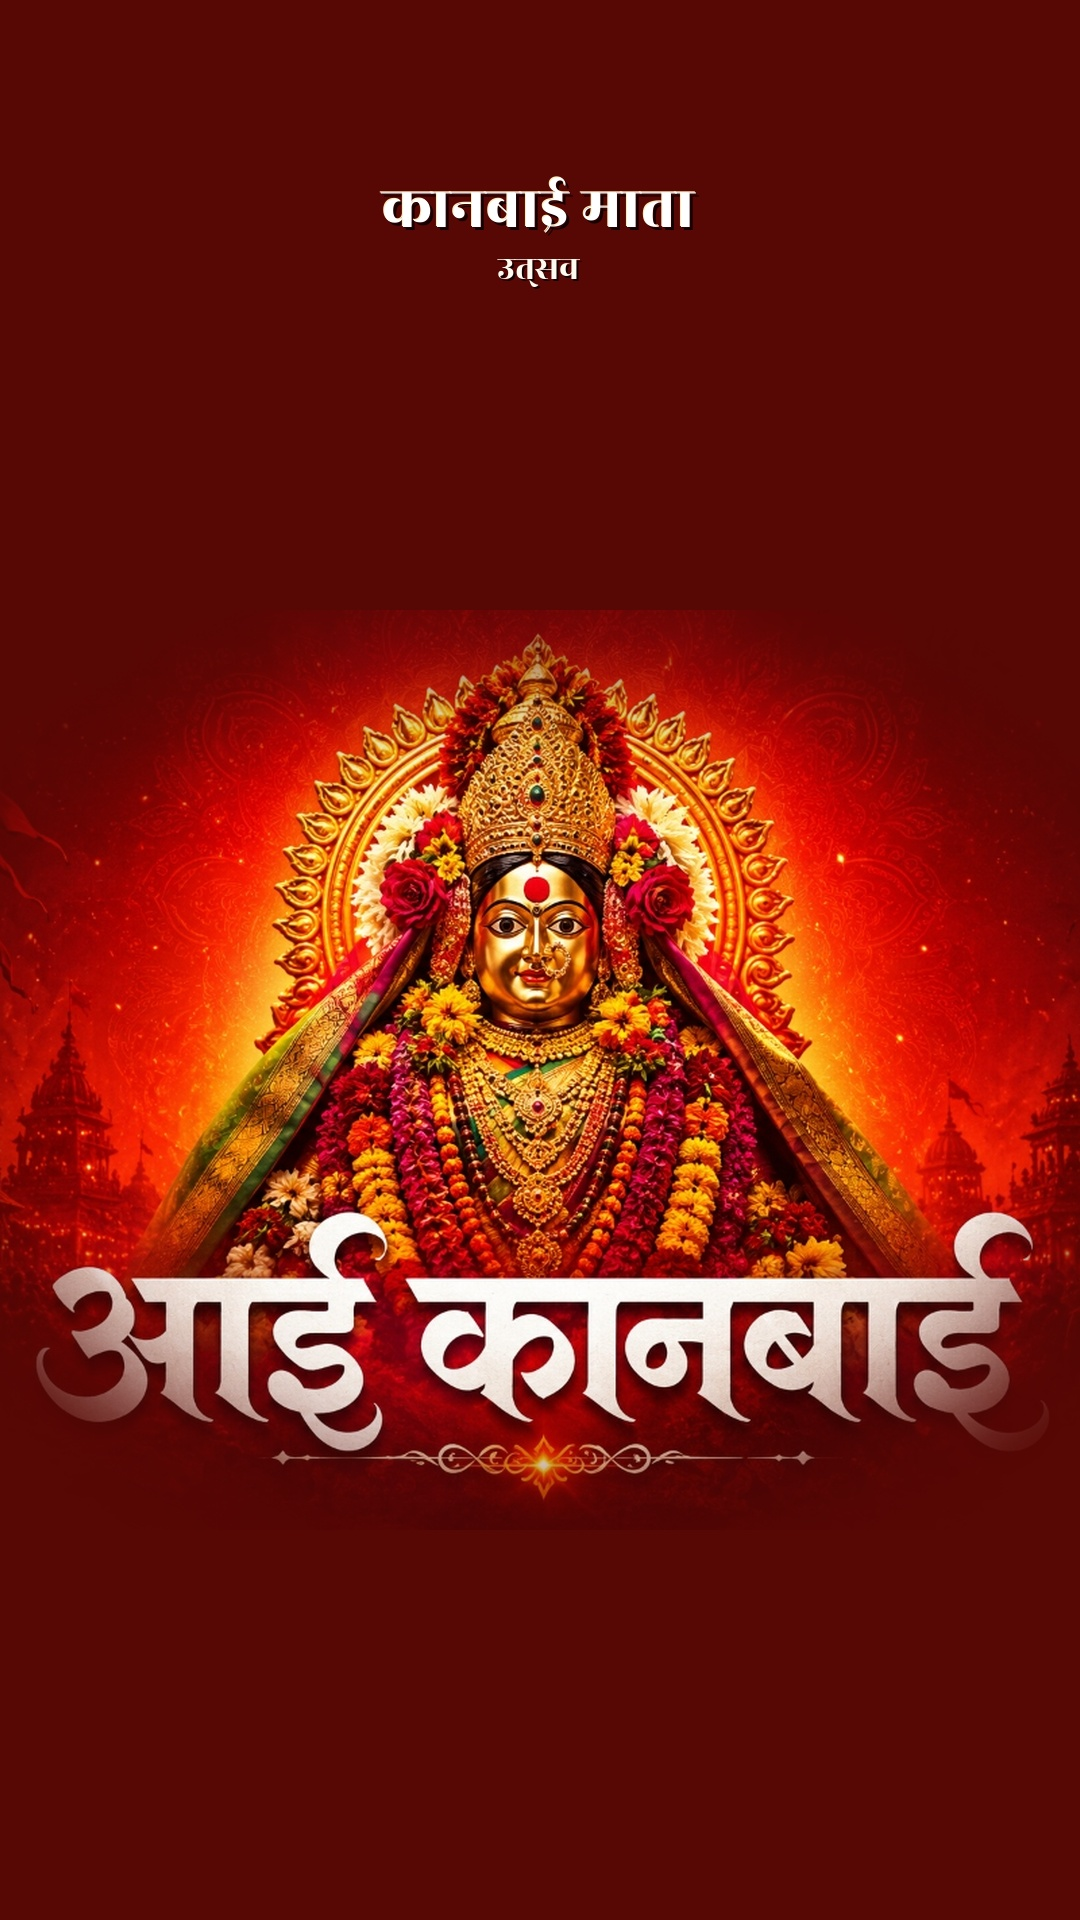
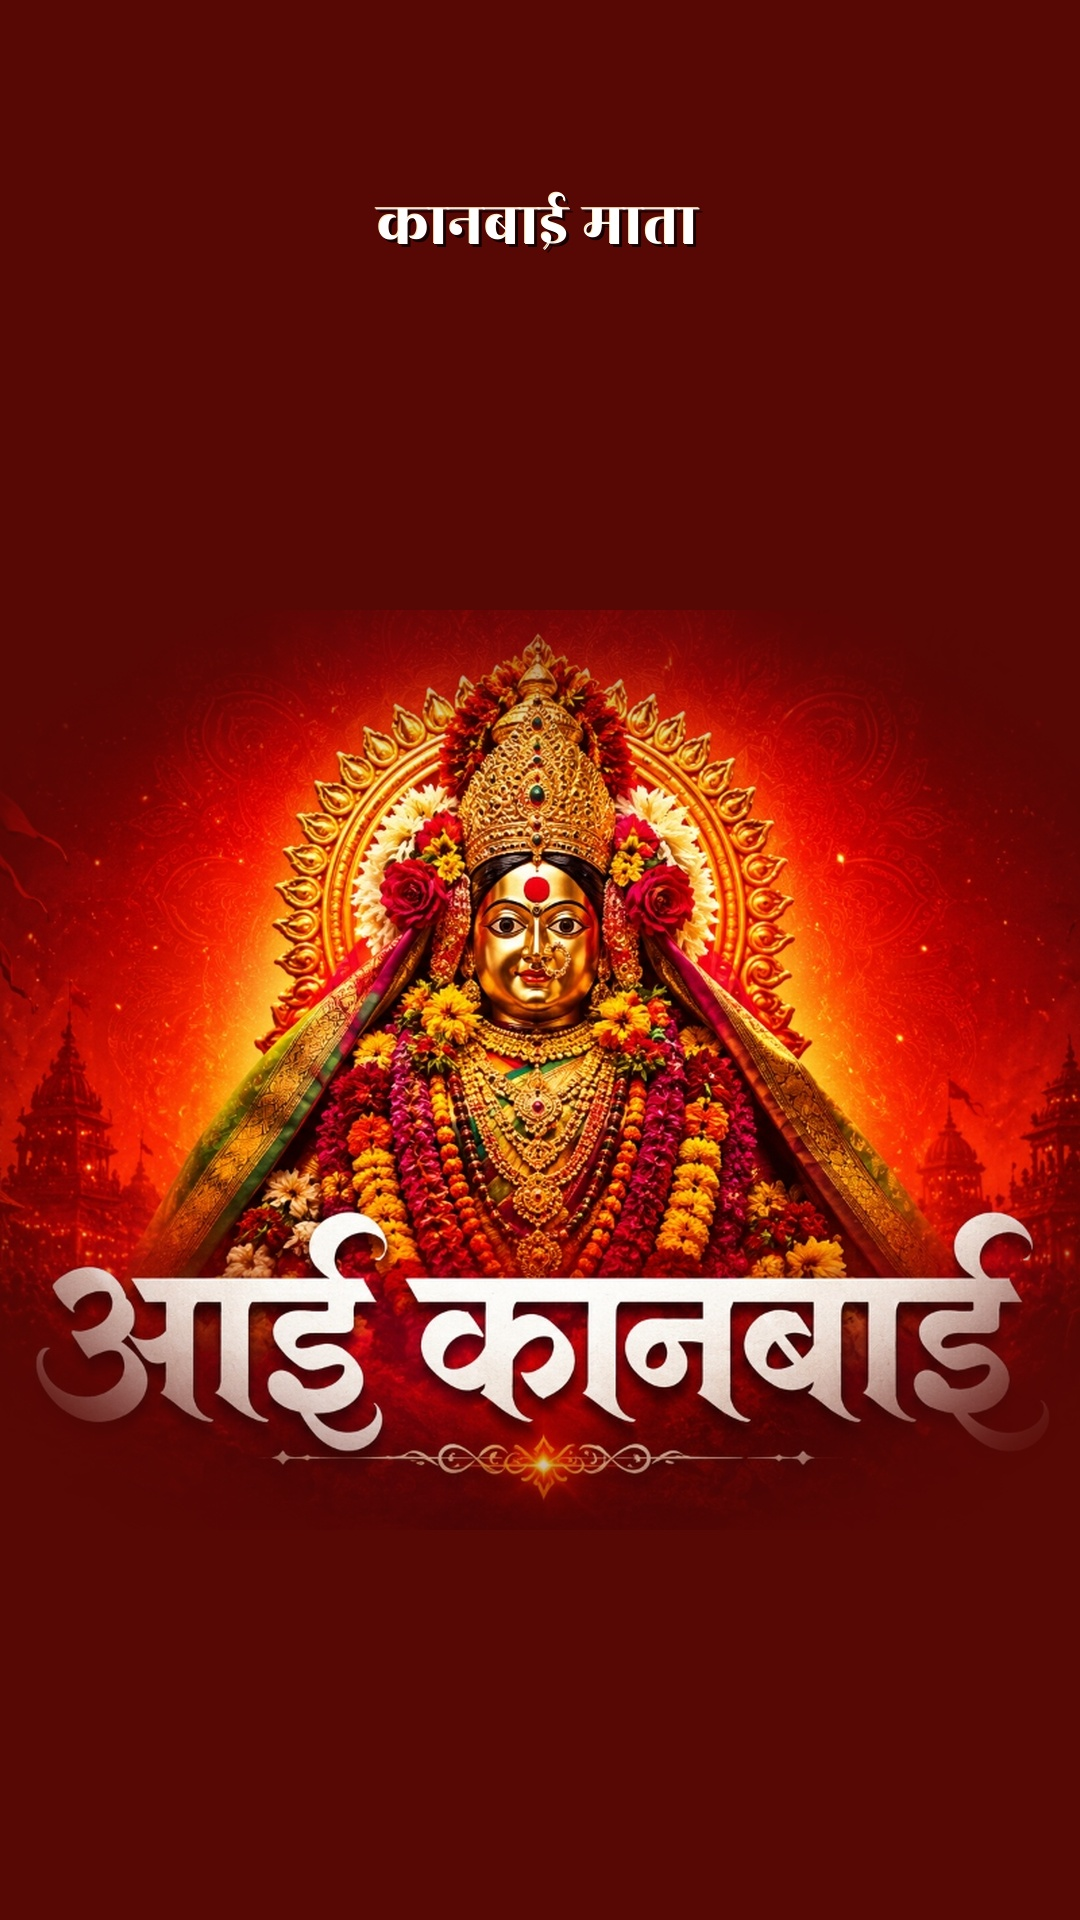
Remove top side text utsav from Kanubai section artwork while retaining clean Kanbai Mata title

Changed region(s): [[0.3361, 0.0938, 0.6417, 0.1562]]

diff --git a/render_kanubai_bg.py b/render_kanubai_bg.py
@@ -35,37 +35,22 @@ def create_feathered_artwork():
     draw_d = ImageDraw.Draw(desktop_canvas)
     
     try:
-        font_title_d = ImageFont.truetype('fonts/RozhaOne-Regular.ttf', 72)
+        font_title_d = ImageFont.truetype('fonts/RozhaOne-Regular.ttf', 76)
     except:
-        font_title_d = ImageFont.truetype(r'C:\Windows\Fonts\NirmalaB.ttf', 72)
-        
-    try:
-        font_sub_d = ImageFont.truetype('fonts/RozhaOne-Regular.ttf', 42)
-    except:
-        font_sub_d = ImageFont.truetype(r'C:\Windows\Fonts\NirmalaB.ttf', 42)
+        font_title_d = ImageFont.truetype(r'C:\Windows\Fonts\NirmalaB.ttf', 76)
 
     title_text = "कानबाई माता"
-    sub_text = "उत्सव"
 
-    # Shifted lower down (y_start = 120px)
     title_bbox = draw_d.textbbox((0, 0), title_text, font=font_title_d)
     t_w = title_bbox[2] - title_bbox[0]
     t_x = (dw - t_w) // 2
-    t_y = 120  # Positioned comfortably lower
+    t_y = 135  # Positioned comfortably
 
     # Drop shadows for title
     draw_d.text((t_x + 3, t_y + 3), title_text, font=font_title_d, fill=(20, 1, 1))
     draw_d.text((t_x + 2, t_y + 2), title_text, font=font_title_d, fill=(40, 2, 2))
     draw_d.text((t_x - 1, t_y - 1), title_text, font=font_title_d, fill=(255, 230, 180))
     draw_d.text((t_x, t_y), title_text, font=font_title_d, fill=(255, 255, 255))
-
-    sub_bbox = draw_d.textbbox((0, 0), sub_text, font=font_sub_d)
-    s_w = sub_bbox[2] - sub_bbox[0]
-    s_x = (dw - s_w) // 2
-    s_y = t_y + 88  # Centered directly below main title
-
-    draw_d.text((s_x + 2, s_y + 2), sub_text, font=font_sub_d, fill=(20, 1, 1))
-    draw_d.text((s_x, s_y), sub_text, font=font_sub_d, fill=(255, 250, 240))
 
     desktop_canvas.save('assets/kanubai-bg.jpg', 'JPEG', quality=95)
     desktop_canvas.save('assets/images/kanubai-bg.jpg', 'JPEG', quality=95)
@@ -94,33 +79,19 @@ def create_feathered_artwork():
     draw_m = ImageDraw.Draw(mobile_canvas)
     
     try:
-        font_title_m = ImageFont.truetype('fonts/RozhaOne-Regular.ttf', 62)
+        font_title_m = ImageFont.truetype('fonts/RozhaOne-Regular.ttf', 64)
     except:
-        font_title_m = ImageFont.truetype(r'C:\Windows\Fonts\NirmalaB.ttf', 62)
-        
-    try:
-        font_sub_m = ImageFont.truetype('fonts/RozhaOne-Regular.ttf', 36)
-    except:
-        font_sub_m = ImageFont.truetype(r'C:\Windows\Fonts\NirmalaB.ttf', 36)
+        font_title_m = ImageFont.truetype(r'C:\Windows\Fonts\NirmalaB.ttf', 64)
 
-    # Shifted lower down on mobile (t_y_m = 165px)
     title_bbox_m = draw_m.textbbox((0, 0), title_text, font=font_title_m)
     tm_w = title_bbox_m[2] - title_bbox_m[0]
     tm_x = (mw - tm_w) // 2
-    tm_y = 165
+    tm_y = 180
 
     draw_m.text((tm_x + 3, tm_y + 3), title_text, font=font_title_m, fill=(20, 1, 1))
     draw_m.text((tm_x + 1, tm_y + 1), title_text, font=font_title_m, fill=(40, 2, 2))
     draw_m.text((tm_x - 1, tm_y - 1), title_text, font=font_title_m, fill=(255, 230, 180))
     draw_m.text((tm_x, tm_y), title_text, font=font_title_m, fill=(255, 255, 255))
-
-    sub_bbox_m = draw_m.textbbox((0, 0), sub_text, font=font_sub_m)
-    sm_w = sub_bbox_m[2] - sub_bbox_m[0]
-    sm_x = (mw - sm_w) // 2
-    sm_y = tm_y + 78
-
-    draw_m.text((sm_x + 2, sm_y + 2), sub_text, font=font_sub_m, fill=(20, 1, 1))
-    draw_m.text((sm_x, sm_y), sub_text, font=font_sub_m, fill=(255, 250, 240))
 
     mobile_canvas.save('assets/kanubai-mobile-bg.jpg', 'JPEG', quality=95)
     mobile_canvas.save('assets/images/kanubai-mobile-bg.jpg', 'JPEG', quality=95)
